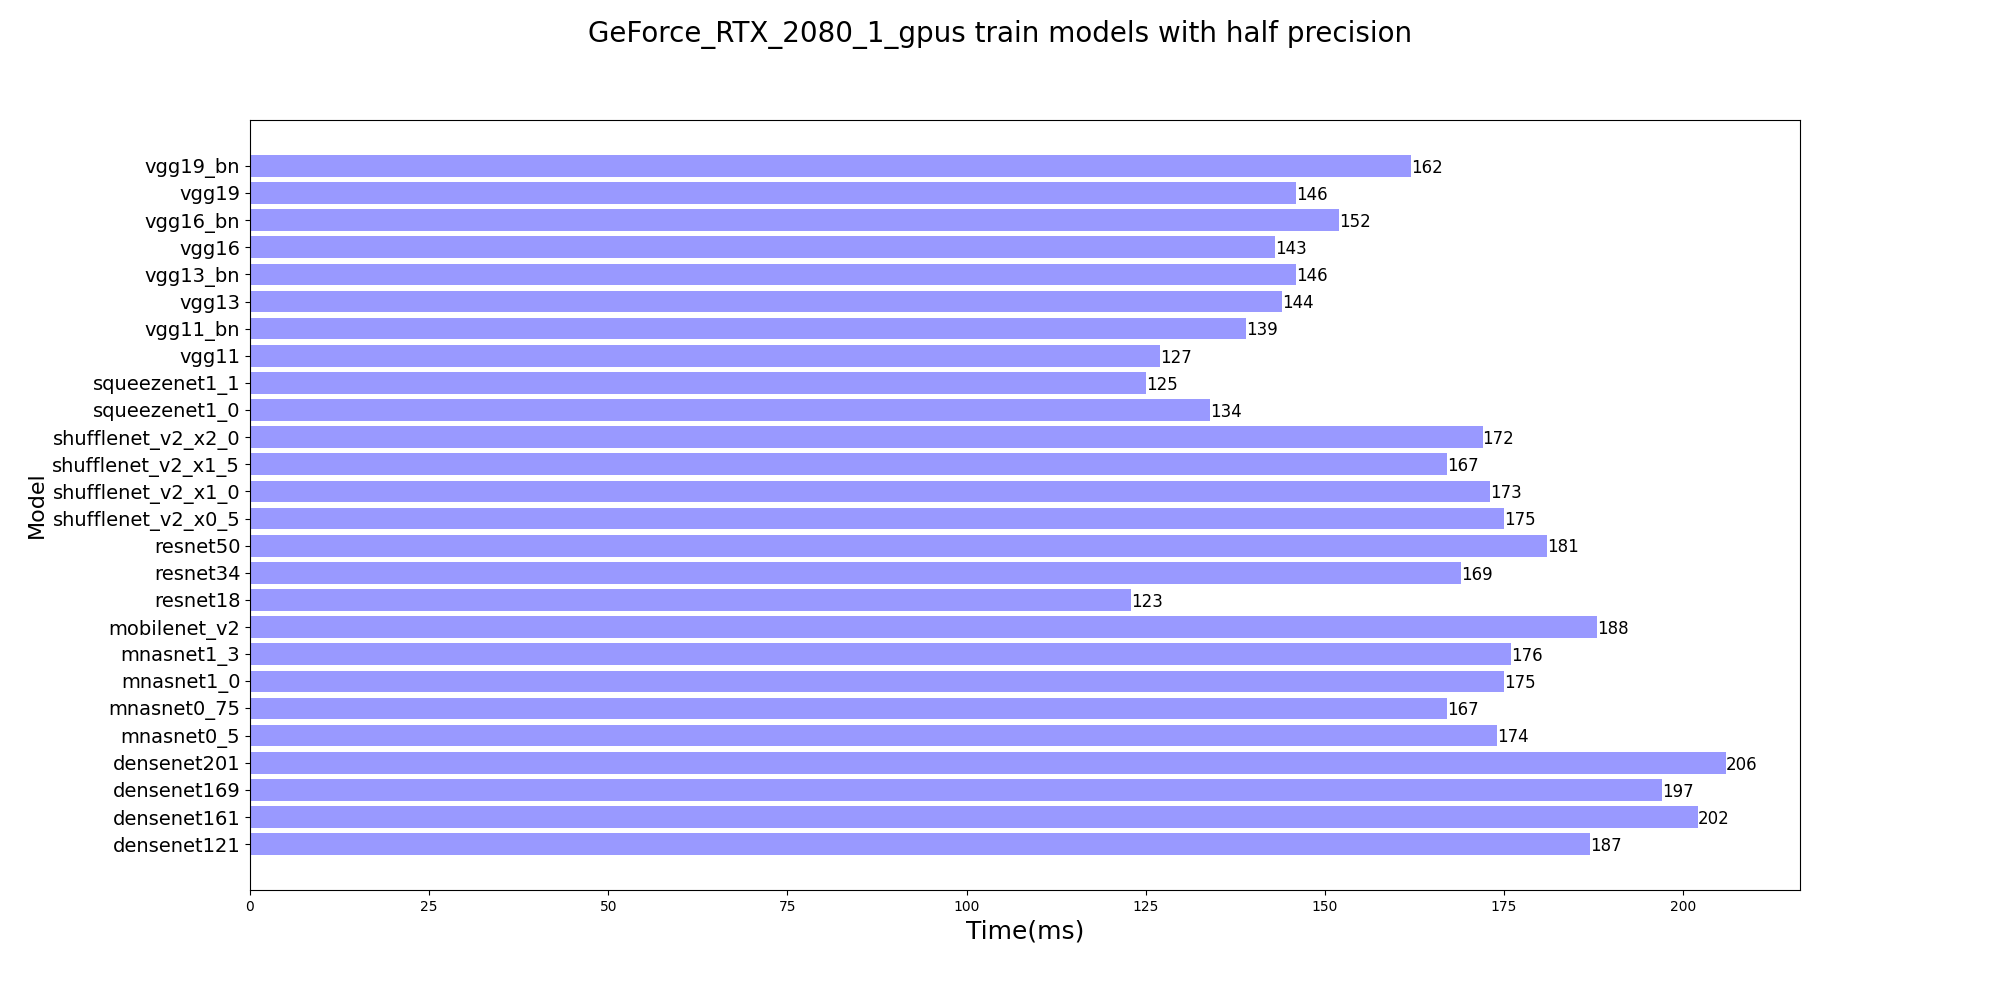
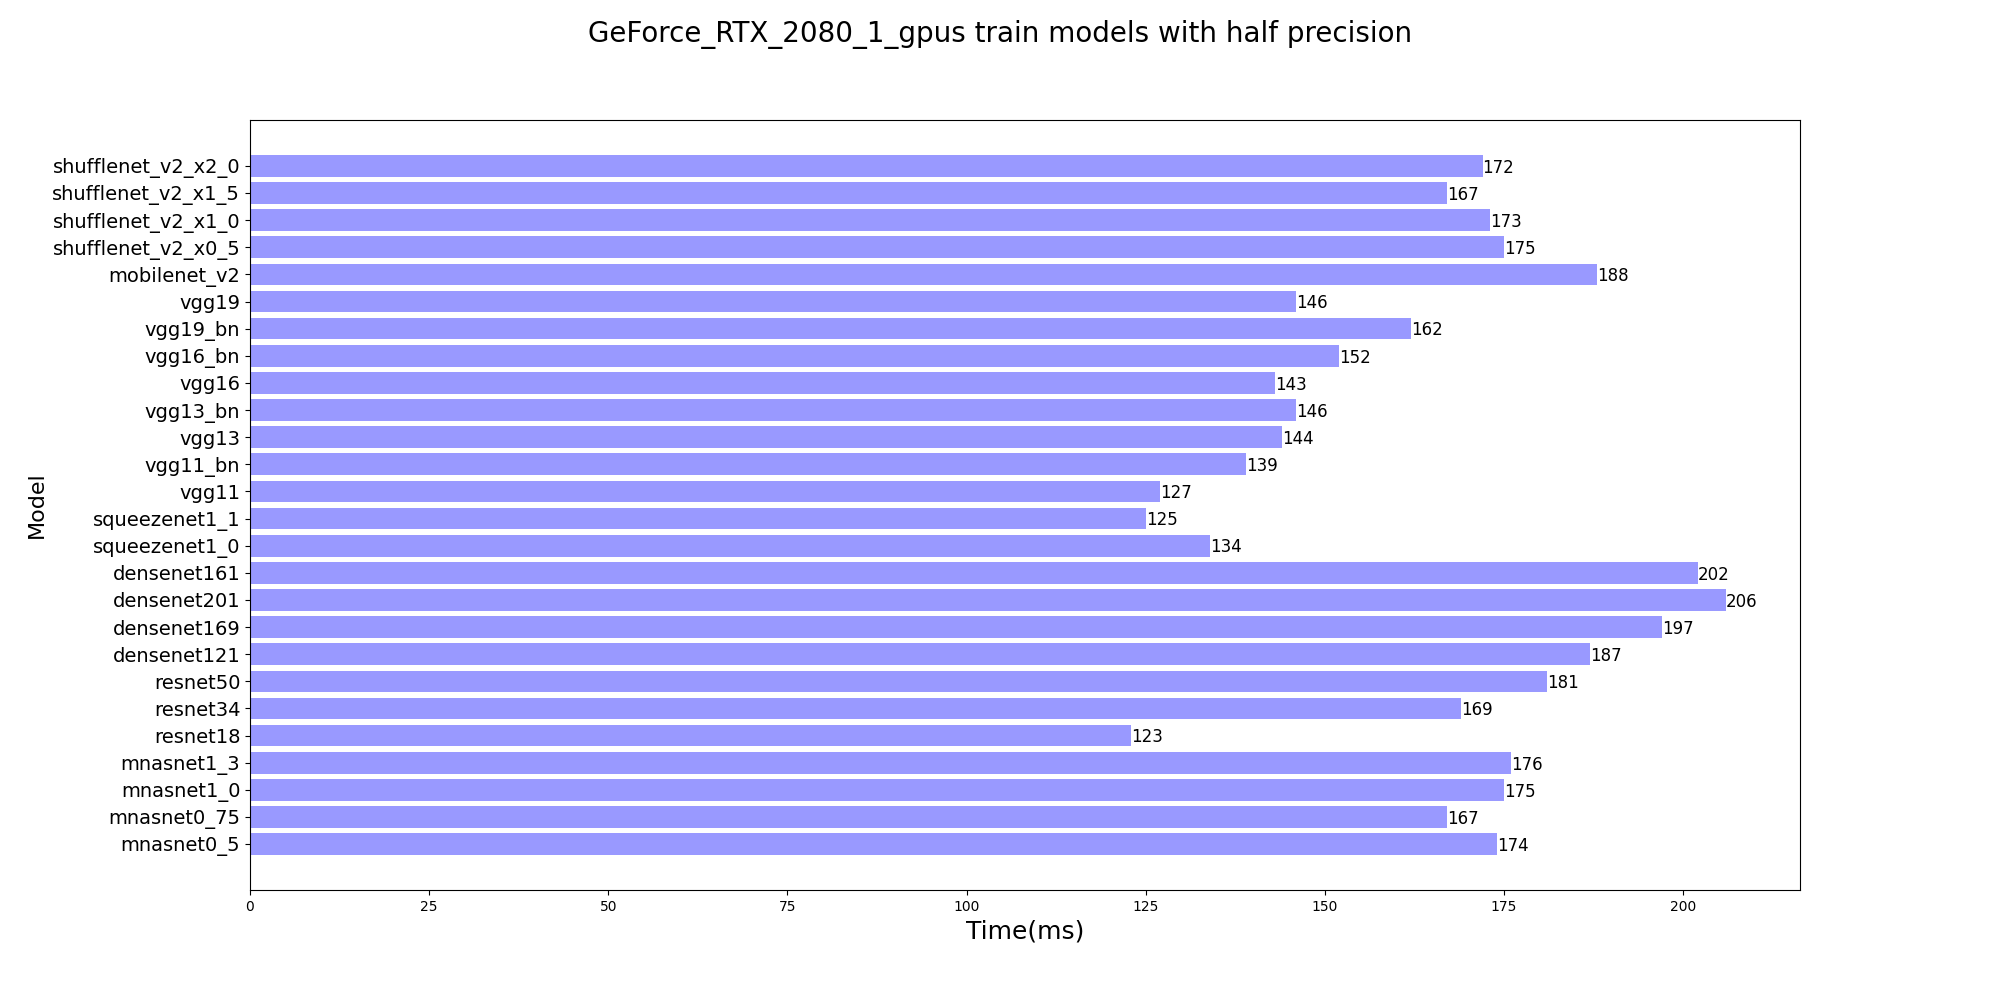
feat: refator plot image for gpu benchmark when different models run same gpu

Changed region(s): [[0.558, 0.155, 0.868, 0.868], [0.031, 0.341, 0.124, 0.868], [0.031, 0.155, 0.124, 0.279]]

diff --git a/benchmark_models.py b/benchmark_models.py
@@ -173,46 +173,6 @@ def experiment(env_name,device_name):
     with open(os.path.join(experiment_result_data_dir,"system_info.txt"), "a") as f:
         f.writelines('benchmark end : '+end_time+'\n')
 
-
-def get_per_model_mean_time(data_dir):
-    benchmarks = []
-    files = os.listdir(data_dir)
-    for file in files:
-        if file.endswith('.csv'):
-            benchmarks.append(file)
-
-    all_model_time = {'train':{'half':{},'float':{},'double':{}},
-                       'inference':{'half':{},'float':{},'double':{}} }
-
-    for file in benchmarks:
-        # print("file: ",os.path.join(data_dir,file))
-        data = pd.read_csv(os.path.join(data_dir,file),index_col=False)
-        # print(data)
-        average_time = data.mean()
-        # print(average_time)
-    
-        if 'train'in file and 'half' in file:
-            all_model_time['train']['half'] =  get_model_time(average_time)
-        elif 'train'in file and 'float' in file:
-   
-            all_model_time['train']['float'] = get_model_time(average_time)
-        elif 'train'in file and 'double' in file:
-    
-            all_model_time['train']['double'] = get_model_time(average_time)
-        elif 'inference'in file and 'half' in file:
-     
-            all_model_time['inference']['half'] = get_model_time(average_time)
-        elif 'inference'in file and 'float' in file:
-   
-            all_model_time['inference']['float'] = get_model_time(average_time)
-        elif 'inference'in file and 'double' in file:
-            all_model_time['inference']['double'] = get_model_time(average_time)
-        else:
-            raise Exception("error file: ",file)
-    
-    # print(all_model_time)
-    return all_model_time
-
 def get_sub_dir(parent_dir):
     files = os.listdir(parent_dir)
     sub_dirs = []
@@ -220,7 +180,6 @@ def get_sub_dir(parent_dir):
         if os.path.isdir(os.path.join(parent_dir,file)):
             sub_dirs.append(file)
     return sub_dirs
-
 
 
 def insert_series_to_df(df,env,gpu,phase,precision,average_time):
@@ -274,27 +233,16 @@ def get_model_time(average_time):
     # print(sorted_dict)
     return sorted_dict
 
-
-def gen_model_name_time_list(model_times_dict):
-    names = []
-    times = []
-    for name, time in model_times_dict.items():
-        names.append(name)
-        times.append(time)
-    return names, times
-
 def plot_models_on_same_gpu(models_time_info,gpu,save_image_dir):
     # 在train、infrence 过程中，三种数据类型下的各个 model 的运行时间。总共6张图。
-    for phase, info in models_time_info.items():
-        for precision, model_times in info.items():
-
-            if phase == 'inference':
-                print(phase,precision,model_times)
-            names, times = gen_model_name_time_list(model_times)
-
+    for phase in phases:
+        for precision in precisions:
             plt_name = "{}_{}_{}.png".format(gpu,phase,precision)
             plt_save_path = os.path.join(save_image_dir,plt_name)
             
+            names = models_time_info[(models_time_info.phases == phase) & (models_time_info.precisions == precision)]['models'].tolist()
+            times = models_time_info[(models_time_info.phases == phase) & (models_time_info.precisions == precision)]['time'].tolist()
+
             name_index = [i for i in range(len(names))]
             plt.figure(figsize=(20, 10), dpi=100)
             plt.barh(name_index,times,color='b',alpha=0.4)
@@ -317,13 +265,15 @@ def get_gpus(gpus_dir):
     return gpus
 
 def different_models_on_same_gpu(experiment_result,envs):
+    big_data_frame = build_big_data_frame_for_benchmark(experiment_result)
+
     for env in envs:
         gpus_dir = os.path.join(experiment_result,env)
-        gpus = get_gpus(gpus_dir)
+        gpus = get_sub_dir(gpus_dir)
         # 先写个假的
         # gpus = ['GeForce_RTX_2080_1_gpus']
         for gpu in gpus:
-            all_model_time = get_per_model_mean_time(os.path.join(gpus_dir,gpu,'data'))
+            all_model_time = big_data_frame[(big_data_frame.envs== env) & (big_data_frame.gpus == gpu)]
             save_image_dir = os.path.join(gpus_dir,gpu,'images')
             if not os.path.exists(save_image_dir):
                 os.makedirs(save_image_dir)
@@ -335,23 +285,10 @@ def get_gpus_intersection(experiment_result,envs):
     all_gpus = []
     for env in envs:
         gpus_dir = os.path.join(experiment_result,env)
-        gpus = get_gpus(gpus_dir)
+        gpus = get_sub_dir(gpus_dir)
         all_gpus.append(gpus)
-        envs_gpus[env] = get_gpus(gpus_dir)
-    # print("env_gpus: ",env_gpus)
-    # print("all_gpus: ",all_gpus)
+        envs_gpus[env] = get_sub_dir(gpus_dir)
     return list(set.intersection(*map(set,all_gpus))),envs_gpus
-
-
-def get_models_run_time_on_same_gpu_in_different_envs(experiment_result,envs,gpu):
-    envs_benchmark = {}
-    for env in envs:
-        model_benchmark_dir = os.path.join(experiment_result,env,gpu,'data')
-        all_model_time = get_per_model_mean_time(model_benchmark_dir)
-        envs_benchmark[env] = all_model_time
-    # print(envs_benchmark)
-    return envs_benchmark
-
 
 
 def plot_image_with_models_benchmark_on_special_gpu_between_envs(gpu,phase,precision,big_data_frame):
@@ -387,24 +324,18 @@ def plot_image_with_models_benchmark_on_special_gpu_between_envs(gpu,phase,preci
     
 def compare_between_envs(experiment_result,envs):
     gpus,envs_gpus = get_gpus_intersection(experiment_result,envs)
-    # print("gpus: ",gpus)
     if len(gpus) == 0:
-        print("not found save gpu between envs! ",env_gpus)
-        # raise Exception("not found save gpu between envs !",env_gpus) 
+        print("not found save gpu between envs! ",env_gpus) 
         return 
     
     big_data_frame = build_big_data_frame_for_benchmark(experiment_result)
-        
     for gpu in gpus:
         for phase in phases:
             for precision in precisions:
                 plot_image_with_models_benchmark_on_special_gpu_between_envs(gpu,phase,precision,big_data_frame)
 
 
-
-
 def statistic_experiment_result(env_name,device_name):
-    
     experiment_result = "./experiment_results"
     files = os.listdir(experiment_result)
     envs = []
@@ -418,18 +349,12 @@ def statistic_experiment_result(env_name,device_name):
         compare_between_envs(experiment_result,envs)
         pass
 
-    
-
-
-
-
-
 
 if __name__ == '__main__':
 
     env_name=args.ENVIRONMENT
     device_name="".join((device_name.replace(" ","_"), '_',str(args.NUM_GPU),'_gpus'))
 
-    # experiment(env_name,device_name)
+    experiment(env_name,device_name)
 
     statistic_experiment_result(env_name,device_name)
